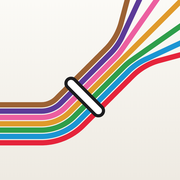
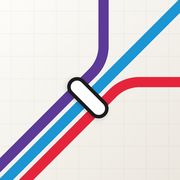
アイコンを3路線の分岐に簡素化

diff --git a/sw.js b/sw.js
@@ -1,5 +1,5 @@
 // オフライン対応：アプリ本体を端末に保存し、オンライン時は裏で最新版を取りに行く
-const CACHE='busmap-v2';
+const CACHE='busmap-v3';
 const FILES=['./','./index.html','./manifest.webmanifest','./icons/icon-192.png','./icons/icon-512.png','./icons/maskable-512.png','./icons/apple-touch-icon.png'];
 self.addEventListener('install',e=>{e.waitUntil(caches.open(CACHE).then(c=>c.addAll(FILES)).then(()=>self.skipWaiting()))});
 self.addEventListener('activate',e=>{e.waitUntil(caches.keys().then(ks=>Promise.all(ks.filter(k=>k!==CACHE).map(k=>caches.delete(k)))).then(()=>self.clients.claim()))});

diff --git a/src/icon_gen.py b/src/icon_gen.py
@@ -1,46 +1,35 @@
 import math
-cols=['#9c6234','#5b3a98','#ec5fa0','#e09a2b','#2e9e4a','#1b95d3','#e5243b']  # 坂戸市役所を通る7路線（関間→市役所の並び順）
-N=len(cols);d=36;w=30
-def pts_lane(i):
-    o=(i-(N-1)/2)*d           # +o = 右側(進行方向に対して)
-    P=[]
-    # 区間1: 左端から水平に右へ (方向0°)、y=Y0
-    Y0=700;X1=250;R=230      # R: 中心線の曲率半径（左折=上へ）
-    th0=0;th1=math.radians(45)
-    # 法線(右側)=進行方向を時計回り90°: dir(cos t, -sin t) 画面座標でyは下向き
-    def nrm(t):return (math.sin(t),math.cos(t))
-    def dr(t):return (math.cos(t),-math.sin(t))
-    for x in range(-80,X1+1,10):P.append((x+o*nrm(0)[0],Y0+o*nrm(0)[1]))
-    cx,cy=X1,Y0-R
-    for k in range(1,41):
-        t=th1*k/40;px=cx+R*math.sin(t);py=cy+R*math.cos(t)
-        n=nrm(t);P.append((px+o*n[0],py+o*n[1]))
-    # 直線（駅を通る）
-    L=400;sx,sy=cx+R*math.sin(th1),cy+R*math.cos(th1);D=dr(th1);n=nrm(th1)
-    for k in range(1,41):
-        px=sx+D[0]*L*k/40;py=sy+D[1]*L*k/40;P.append((px+o*n[0],py+o*n[1]))
-    ex,ey=px,py
-    # 分岐：各線が少しずつ違う方向へ広がる
-    a=math.radians((i-(N-1)/2)*-10)   # 右側の線ほど右へ
-    t=th1;x,y=ex+o*n[0],ey+o*n[1];Rf=340
-    steps=40
-    for k in range(steps):
-        t+=-a/steps*-1 if False else a/steps
-        dx,dy=dr(t);x+=dx*abs(a)*Rf/steps if a else dx*0;y+=dy*abs(a)*Rf/steps if a else 0
-        if a:P.append((x,y))
-    dx,dy=dr(t)
-    for k in range(1,30):P.append((x+dx*25*k,y+dy*25*k))
-    return P,(sx+D[0]*L*0.3,sy+D[1]*L*0.3),th1
-svg=['<svg xmlns="http://www.w3.org/2000/svg" viewBox="0 0 1024 1024">',
-'<defs><linearGradient id="bg" x1="0" y1="0" x2="0" y2="1"><stop offset="0" stop-color="#fbfaf6"/><stop offset="1" stop-color="#eeeae2"/></linearGradient></defs>',
+# 坂戸市役所：関間方面から3路線が束になって来て、市役所で北（さかど駅線）・北東（しがいち線）・南東（みよしの線）に分かれる
+W=58;GAP=24;s=W+GAP
+lanes=[('#5b3a98',-1,-45),('#1b95d3',0,0),('#e5243b',1,45)]   # (色, 束内の位置, 分岐後の曲がり角 +右/-左)
+ST=(500,556)   # 駅の中心
+th=math.radians(45)   # 進行方向：右上45°
+def dr(t):return (math.cos(t),-math.sin(t))
+def nr(t):return (math.sin(t),math.cos(t))   # 進行方向の右側
+FORK=120;R0=130
+def lane(o,turn):
+    D=dr(th);N=nr(th);P=[]
+    for k in range(-900,FORK+1,10):
+        P.append((ST[0]+D[0]*k+N[0]*o*s,ST[1]+D[1]*k+N[1]*o*s))
+    x,y=P[-1];t=th;a=math.radians(-turn)
+    if turn:
+        r=R0+(o*s if turn>0 else -o*s)  # 外側ほど大きく（同心円）
+        n=48
+        for i in range(n):
+            t2=t+a/n;mx,my=dr(t+a/n/2);step=abs(a/n)*r;x+=mx*step;y+=my*step;t=t2;P.append((x,y))
+    D=dr(t)
+    for k in range(1,60):P.append((x+D[0]*20*k,y+D[1]*20*k))
+    return P
+out=['<svg xmlns="http://www.w3.org/2000/svg" viewBox="0 0 1024 1024">',
+'<defs><linearGradient id="bg" x1="0" y1="0" x2="1" y2="1"><stop offset="0" stop-color="#fdfcf9"/><stop offset="1" stop-color="#ebe7df"/></linearGradient>',
+'<filter id="sh" x="-30%" y="-30%" width="160%" height="160%"><feDropShadow dx="0" dy="10" stdDeviation="14" flood-color="#000" flood-opacity=".16"/></filter></defs>',
 '<rect width="1024" height="1024" fill="url(#bg)"/>']
-_,C0,_=pts_lane(0);SX,SY=512-C0[0]-30,512-C0[1]+40
-for i,c in enumerate(cols):
-    P,C,th=pts_lane(i);P=[(x+SX,y+SY) for x,y in P];C=(C[0]+SX,C[1]+SY)
-    svg.append('<polyline fill="none" stroke="%s" stroke-width="%d" stroke-linejoin="round" stroke-linecap="round" points="%s"/>'%(c,w,' '.join('%.1f,%.1f'%p for p in P)))
-# 駅（カプセル）：束に直交
-cx,cy=C;ang=-45+90
-Lc=N*d+26;Hc=58
-svg.append('<g transform="translate(%.1f %.1f) rotate(%.1f)"><rect x="%.1f" y="%.1f" width="%.1f" height="%d" rx="%.1f" fill="#fff" stroke="#1c1c1e" stroke-width="18"/></g>'%(cx,cy,ang,-Lc/2,-Hc/2,Lc,Hc,Hc/2))
-svg.append('</svg>')
-open('icon.svg','w').write('\n'.join(svg))
+g=['<g fill="none" stroke="#2b2b30" stroke-opacity=".045" stroke-width="3">']
+for v in range(64,1024,128):g.append(f'<path d="M{v} 0V1024M0 {v}H1024"/>')
+g.append('</g>');out+=g
+for c,o,t in lanes:
+    P=lane(o,t)
+    out.append('<polyline fill="none" stroke="%s" stroke-width="%d" stroke-linecap="round" stroke-linejoin="round" points="%s"/>'%(c,W,' '.join('%.1f,%.1f'%p for p in P)))
+L=2*s+W+44;H=92
+out.append(f'<g transform="translate({ST[0]} {ST[1]}) rotate(45)" filter="url(#sh)"><rect x="{-L/2}" y="{-H/2}" width="{L}" height="{H}" rx="{H/2}" fill="#fff" stroke="#1c1c1e" stroke-width="20"/></g>')
+out.append('</svg>');open('icon2.svg','w').write('\n'.join(out))
